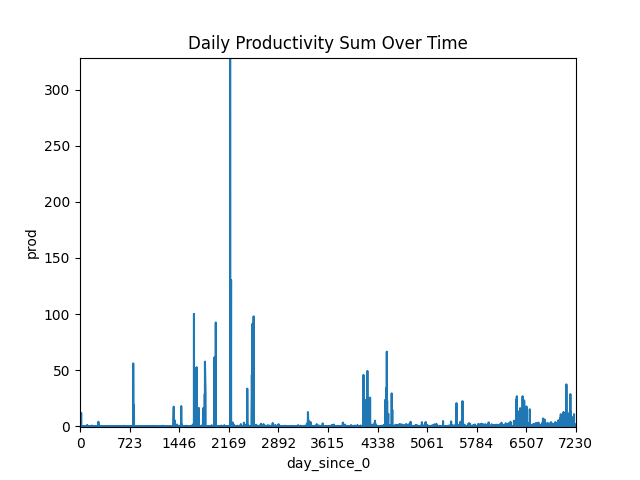
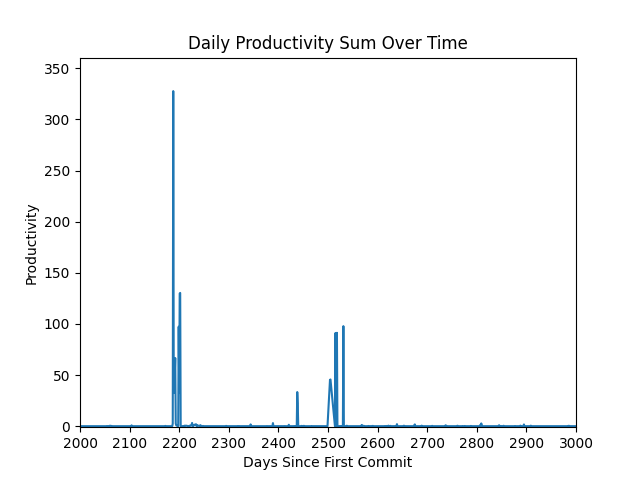
ready for code review

diff --git a/ssl_metrics_git_productivity/create_graph.py b/ssl_metrics_git_productivity/create_graph.py
@@ -41,17 +41,14 @@ def get_argparse() -> Namespace:
 def plot(df: DataFrame, filename: str) -> None:
     figure: Figure = plt.figure()
 
+
     # data extraction
-
-    days = set(df["day_since_0"])
-    unique_days = {day: 0 for day in days}
-
-    unique_days = {day: {"prod": 0, "velocity": 0} for day in days}
+    unique_days = {day:0 for day in set(df['day_since_0'])}
 
     for day in unique_days:
-        temp = df[df["day_since_0"] == day]
-        unique_days[day]["prod"] = temp["productivity"].sum()
-        unique_days[day]["velocity"] = temp["velocity"].max()
+        temp = df[df['day_since_0'] == day]
+        unique_days[day] = (temp.sum(axis=0)['productivity'])
+
 
     # xticks
     max_tick = int(max(unique_days.keys()) + 10 / 10)
@@ -79,15 +76,13 @@ def plot(df: DataFrame, filename: str) -> None:
     1 is a placeholder for velocity max, but one velocity value is inf
     prod will never be negative
     '''
-    plt.ylim([df['velocity'].min()*1.1, max(max([day['prod'] for day in unique_days.values()]) , df['velocity'].max()) * 1.1])
+    plt.ylim(-1, max([day for day in unique_days.values()]) * 1.1)
 
     plt.ylabel("Productivity")
     plt.xlabel("Days Since First Commit")
     plt.title("Daily Productivity Sum Over Time")
 
-    plt.plot(unique_days.keys(), [day['prod'] for day in unique_days.values()], linewidth=3)
-    plt.plot(unique_days.keys(), [day['velocity'] for day in unique_days.values()], color='red', linewidth=0.75)
-
+    plt.plot(unique_days.keys(),unique_days.values())
     figure.savefig(filename)
 
     '''TODO
@@ -95,12 +90,6 @@ def plot(df: DataFrame, filename: str) -> None:
     try in future
         graphing straight from df
     using separate dicts so that you dont have to iterate as many times
-    '''
-
-    '''TODO
-    the graphs should depict velocity = 0 when prod is at a peak
-    how to achieve??
-    regression modeling?
     '''
 
 
